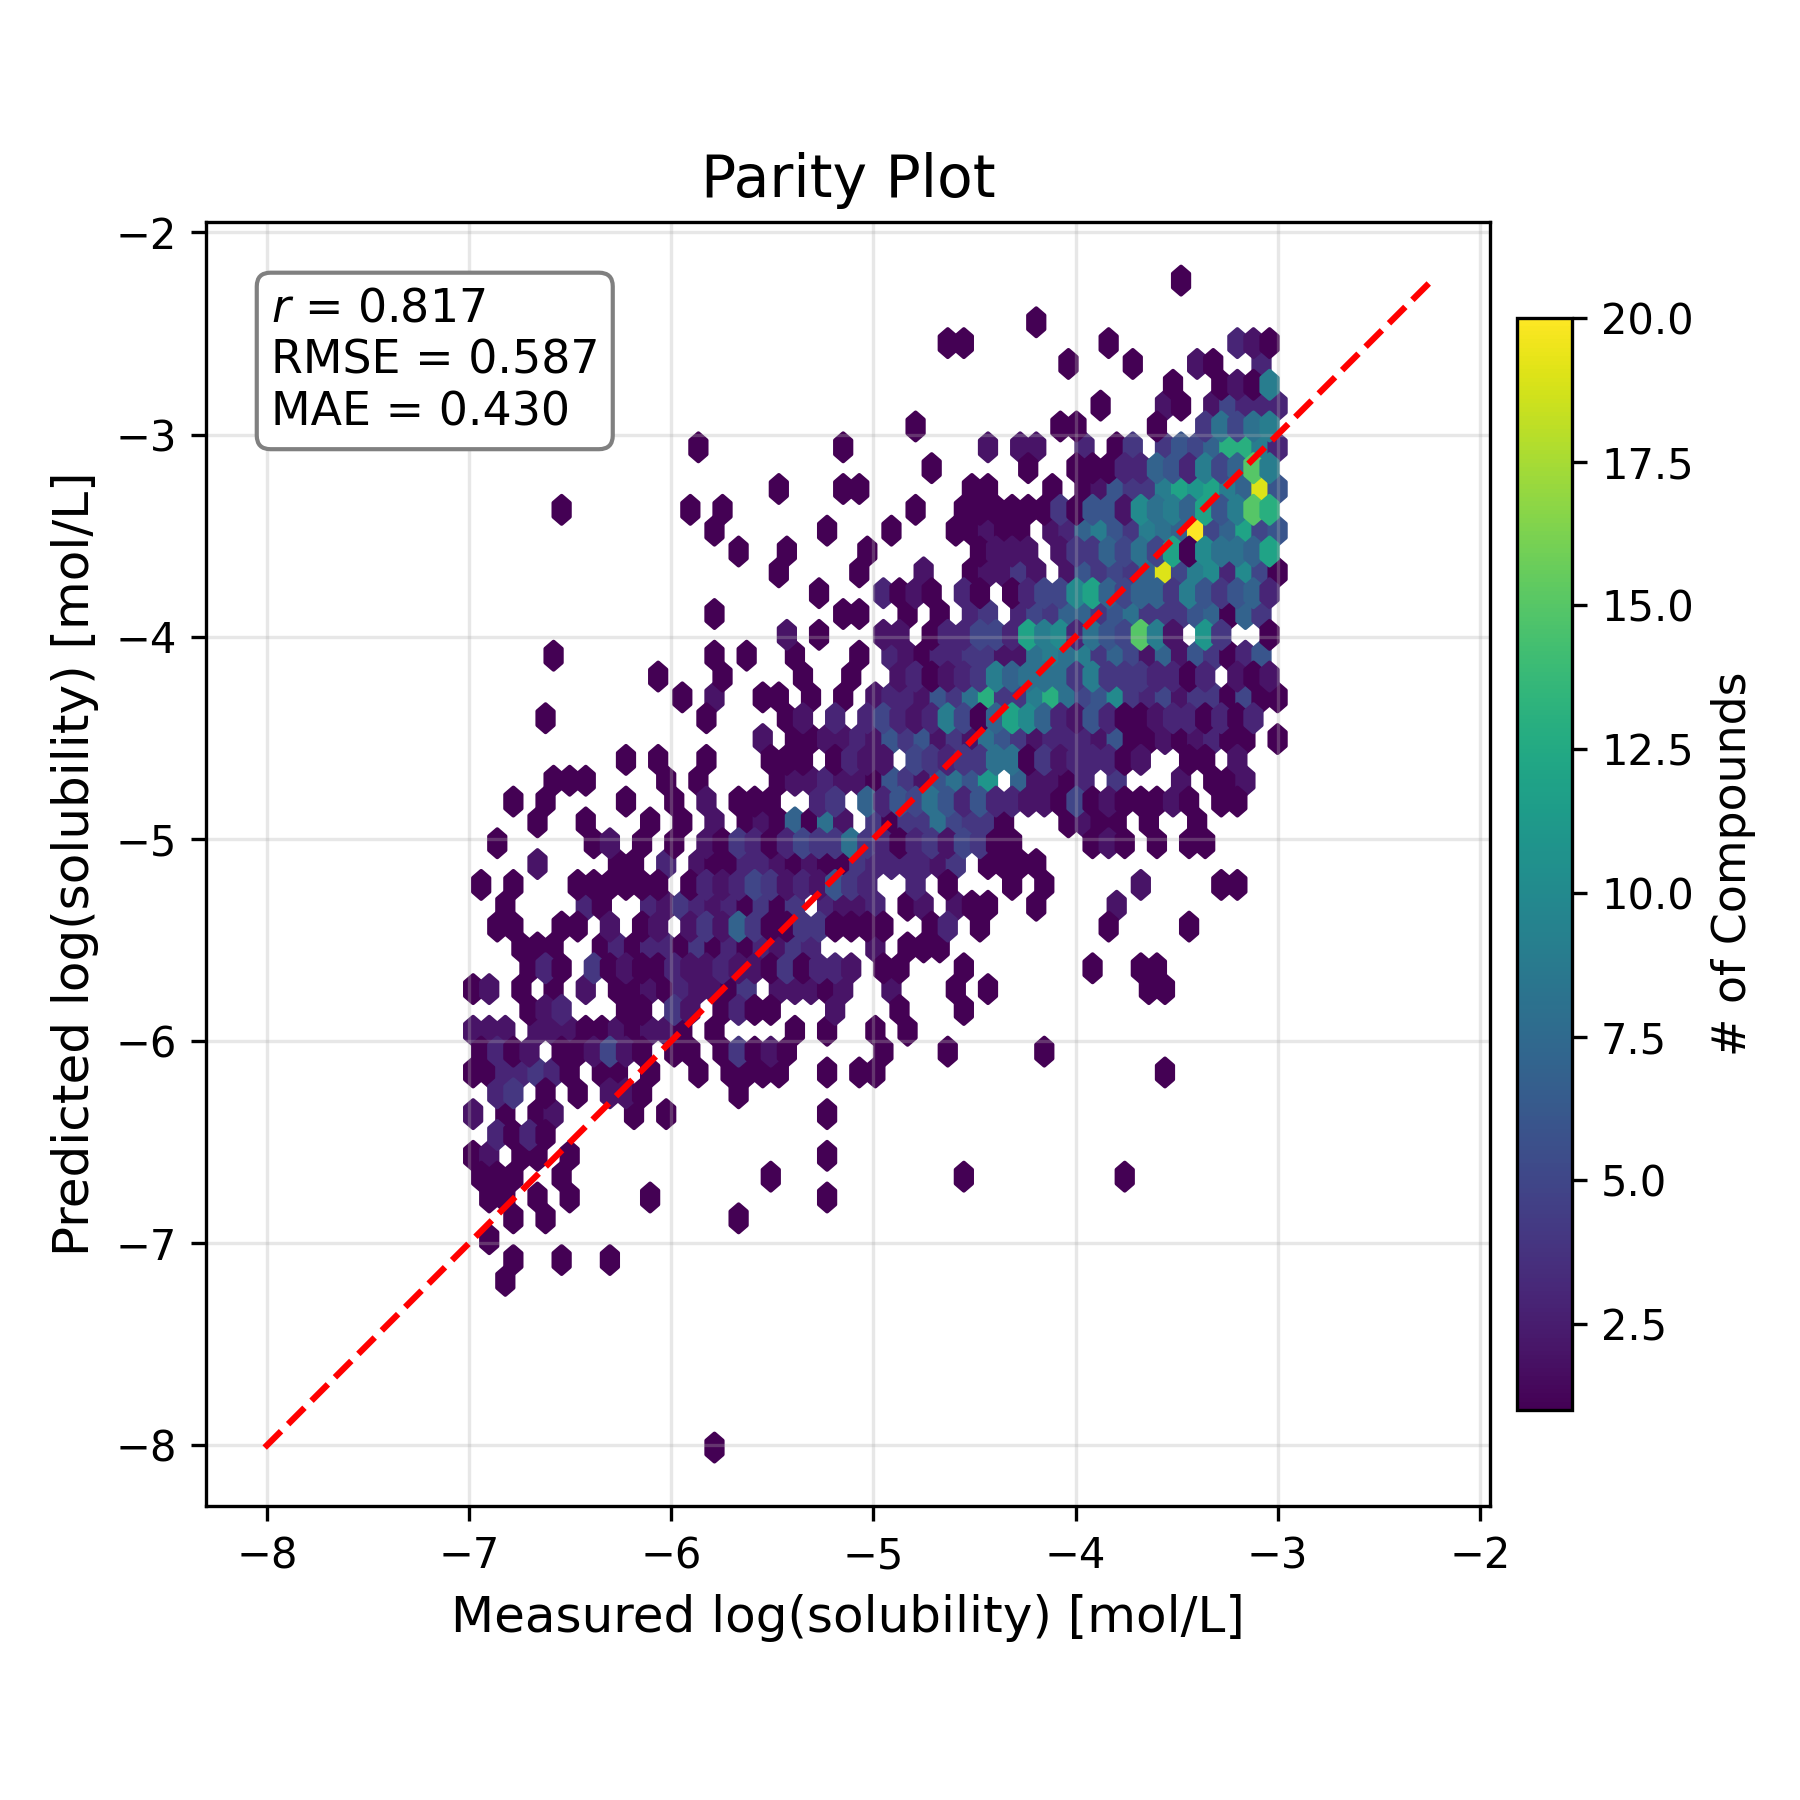
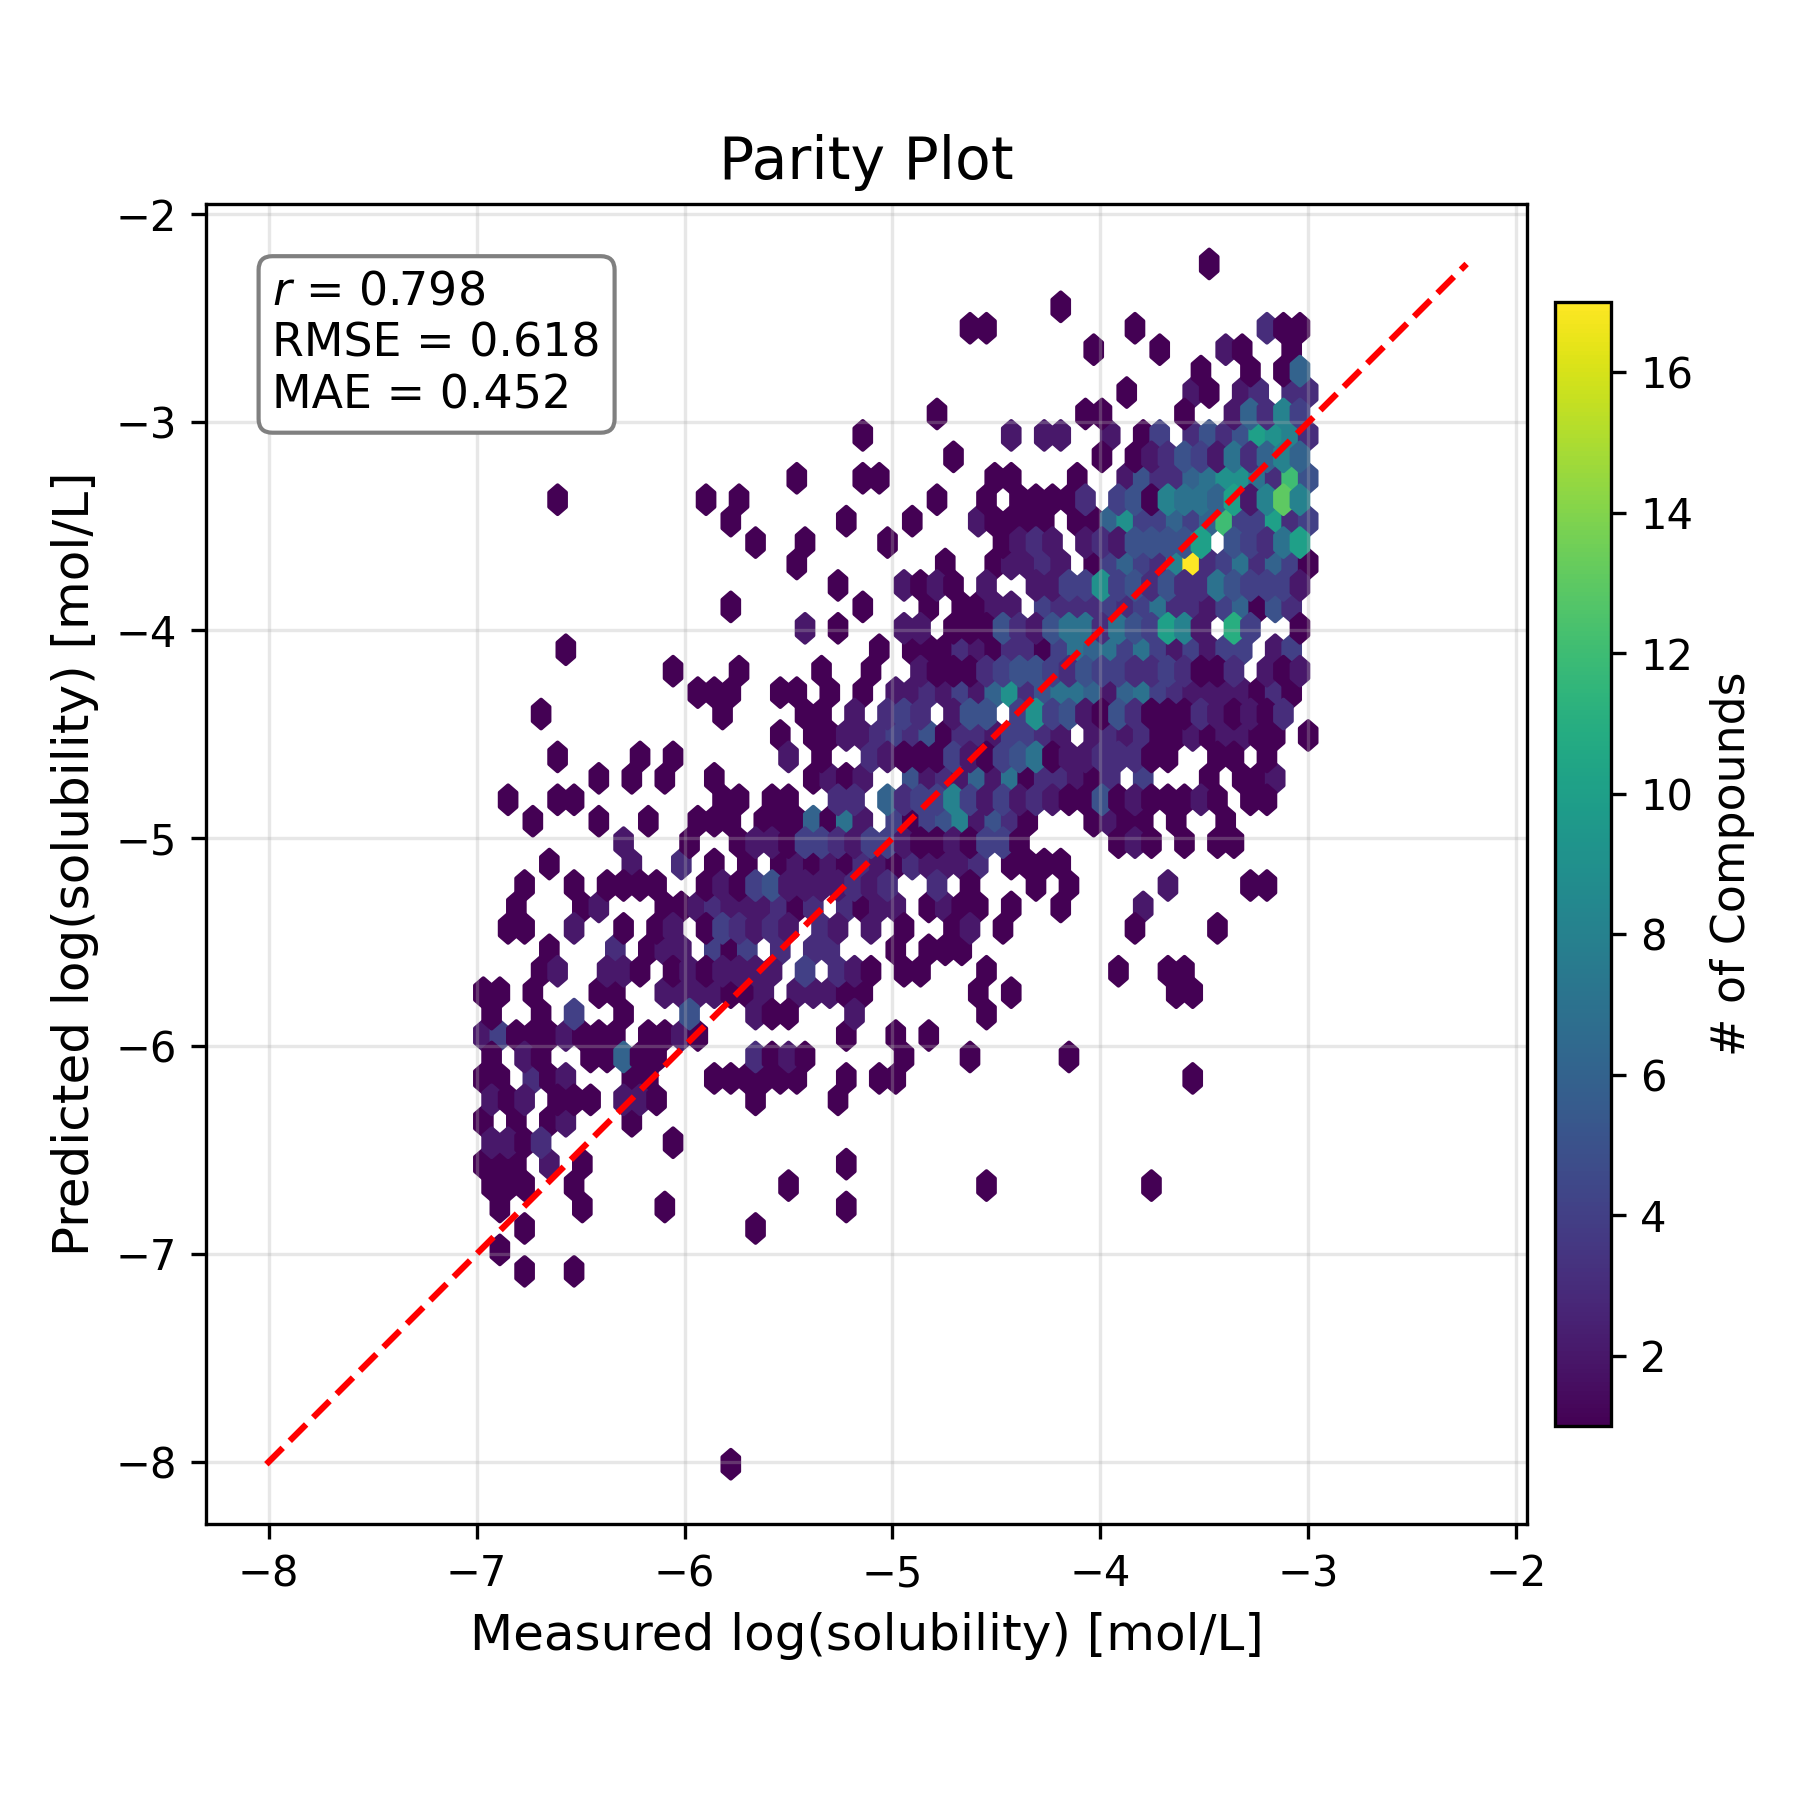
add chemeleon, more sisso results with clustering

diff --git a/main.py b/main.py
@@ -49,7 +49,7 @@ DESCRIPTORS = [
     "NumUnspecifiedAtomStereoCenters",
     "RingCount",
     "MolLogP",
-    "MolMR",
+    # "MolMR",  <-- hard to interpret
     "fr_Al_COO",
     "fr_Al_OH",
     "fr_Al_OH_noTert",
@@ -402,7 +402,7 @@ if __name__ == "__main__":
         df, 
         target_col="logS", 
         force_include=["SMILES", "MolLogP", "MolMR", "TPSA_norm", "MolWt", "HeavyAtomCount", "AromaticProportion"], 
-        n_keep=20,
+        n_keep=15 + 1,  # +1 for SMILES
     )
 
     # clustering-based downsampling
@@ -420,11 +420,11 @@ if __name__ == "__main__":
     sm = SissoModel(
         sisso_df,
         use_gpu=True,
-        operators=["+", "-", "*", "/", "pow(2)", "log", "sqrt"],
-        n_term=4,  # terms in final equation - could do a scree plot to determine this
+        operators=["+", "-"],
+        n_term=2,  # terms in final equation - could do a scree plot to determine this
         initial_screening=None,  # done manually
-        n_expansion=3,  # hyperparameter, default 3
-        k=20,  # hyperparameter, default 20
+        n_expansion=2,  # hyperparameter, default 3
+        k=30,  # hyperparameter, default 20
     )
 
     # Run the SISSO algorithm to get the interpretable model with the highest accuracy
@@ -465,5 +465,12 @@ if __name__ == "__main__":
             test_features = add_ap(test_features)
             # sisso
             test_pred = equation(test_features)
+            # nans
+            nan_guess = np.nanmean(test_pred)
+            for i in range(len(smiles)):
+                if np.isnan(test_pred[i]):
+                    print("nan prediction found, replacing with nan mean")
+                    print(test_features.iloc[i, :])
+                    test_pred[i] = nan_guess
             test_true = test_df["logS"].values
             parity_plot(test_true, test_pred, f"results/sisso_{f}{'_full' if full else ''}_parity")

diff --git a/chemeleon_results.py b/chemeleon_results.py
@@ -1,11 +1,18 @@
 import pandas as pd
+from rdkit.Chem import CanonSmiles
 
 from main import parity_plot
 
 if __name__ == "__main__":
+    train_smiles = [CanonSmiles(smi) for smi in pd.read_csv("chemeleon_aqsoldbc_filtered_train.csv")["SMILES"]]
     for f in ("biogen", "ochem"):
-        true_arr = pd.read_csv(f"{f}.csv")["logS"].to_numpy()
-        pred_arr = pd.read_csv(f"chemeleon_results/{f}_pred.csv")["logS"].to_numpy()
+        true_df = pd.read_csv(f"{f}.csv")
+        true_df = true_df[~true_df["SMILES"].isin(train_smiles)]
+        pred_df = pd.read_csv(f"chemeleon_results/{f}_pred.csv")
+        pred_df = pred_df[~pred_df["SMILES"].isin(train_smiles)]
+        # drop overlap
+        pred_arr = pred_df["logS"].to_numpy()
+        true_arr = true_df["logS"].to_numpy()
         parity_plot(true_arr, pred_arr, f"results/chemeleon_{f}_full_parity")
         if f == "biogen":
             continue
